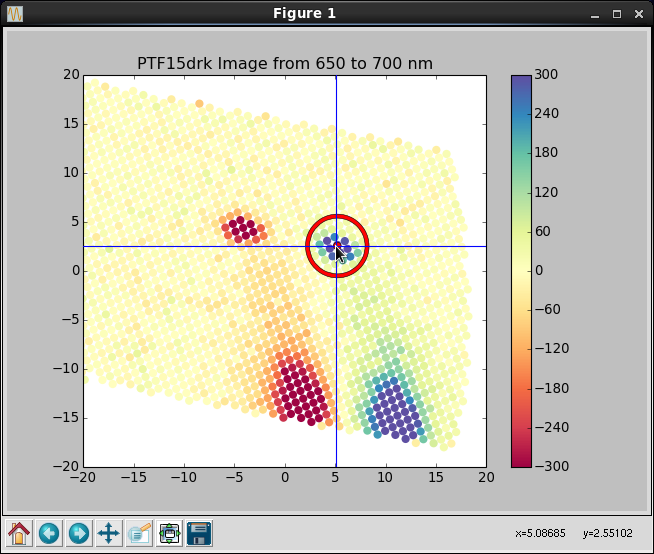
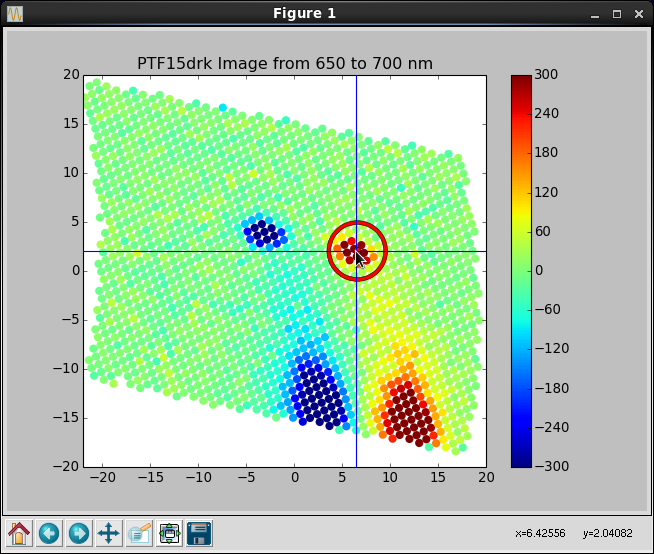
Updated figures to reflect current pipeline color scheme, added Nadia's exposure time estimates.

diff --git a/source/Quick.rst b/source/Quick.rst
@@ -2,7 +2,7 @@
 Quick Reference for Observers 
 =============================
 
-We are in the process of developing an automated system for data reduction and analysis.  Currently, the only interactive step in the data reduction is placing the aperture(s) on the object(s).  For PTF followup, the data are usually taken in A/B pairs to improve the sky subtraction.  This requires that the observer place an aperture on the A position (positive: blue) and on the B position (negative: red).  See below for a step-by-step procedure.  These steps may eventually be automated, depending on how robust and accurate our astrometry turns out to be.
+We are in the process of developing an automated system for data reduction and analysis.  Currently, the only interactive step in the data reduction is placing the aperture(s) on the object(s).  For PTF followup, the data are usually taken in A/B pairs to improve the sky subtraction.  This requires that the observer place an aperture on the A position (positive: red) and on the B position (negative: blue).  See below for a step-by-step procedure.  These steps may eventually be automated, depending on how robust and accurate our astrometry turns out to be.
 
 Once the apertures have been placed, all that remains is to generate an ascii spectrum of the object and then run your favorite classifier.  SNID is provided, but the format is universal enough to be input to any classifier (Superfit, e.g.). The final step is uploading the spectrum and any classification data (type, age, redshift, template figures) to the PTF marshal.  For this, we suggest you use your own account so you are recorded as the observer.
 
@@ -33,24 +33,24 @@ The observer connects with pharos either through VNC (recommended), or via an X 
     * ``make science``
 4. Place aperture on A target:
     * confer with PTF marshal cutouts and finder charts for object
-    * find A object (positive: blue)
+    * find A object (positive: red)
     * place red aperture on target
     * adjust size with 'z' or 'x' keys
     * left click when sized and placed
 
 .. figure:: PTF15drk_AperA.png
 
-    A/B Aperture placement: Aper A goes on positive (blue) target.
+    A/B Aperture placement: Aper A goes on positive (red) target.
 
 5. Place aperture on B target:
-    * If A/B pair, find B object (negative: red)
+    * If A/B pair, find B object (negative: blue)
     * place red aperture on target
     * adjust size with 'z' or 'x' keys (should be same size as A)
     * left click when sized and placed
 
 .. figure:: PTF15drk_AperB.png
 
-    A/B Aperture placement: Aper B goes on negative (red) target.
+    A/B Aperture placement: Aper B goes on negative (blue) target.
 
 6. Generate ascii spectrum and confirm extraction:
     * ``chspec sp_PTF15drk.npy`` (e.g.)
@@ -78,10 +78,10 @@ Data Format & Fields of View
 Both cameras produce 2048 pixel square images.  The field-of-view of the IFU camera is roughly 30 arcsec on a side, while the Rainbow Camera has a field-of-view that is roughly 13 arcmin on a side.
 
 
-Magnitude Limits
-----------------
+Exposure Time Estimates
+-----------------------
 
-Exposure time recommendations for standard stars (single A exposure):
+IFU exposure time recommendations for standard stars (single A exposure):
 
 * 10 - 11 mag --> 120s
 * 11 - 12 mag --> 240s
@@ -89,3 +89,13 @@ Exposure time recommendations for standard stars (single A exposure):
 * 13 - 14 mag --> 500s
 
 Exposures longer than this might be considered for an A/B pair.
+
+IFU exposure time (total) recommendations for science targets (split A/B pair):
+
+* 15 mag --> 420s
+* 16 mag --> 600s
+* 17 mag --> 900s
+* 18 mag --> 1800s
+* 19 mag --> 2700s
+* 20 mag --> 3600s
+* 21 mag --> 5400s
